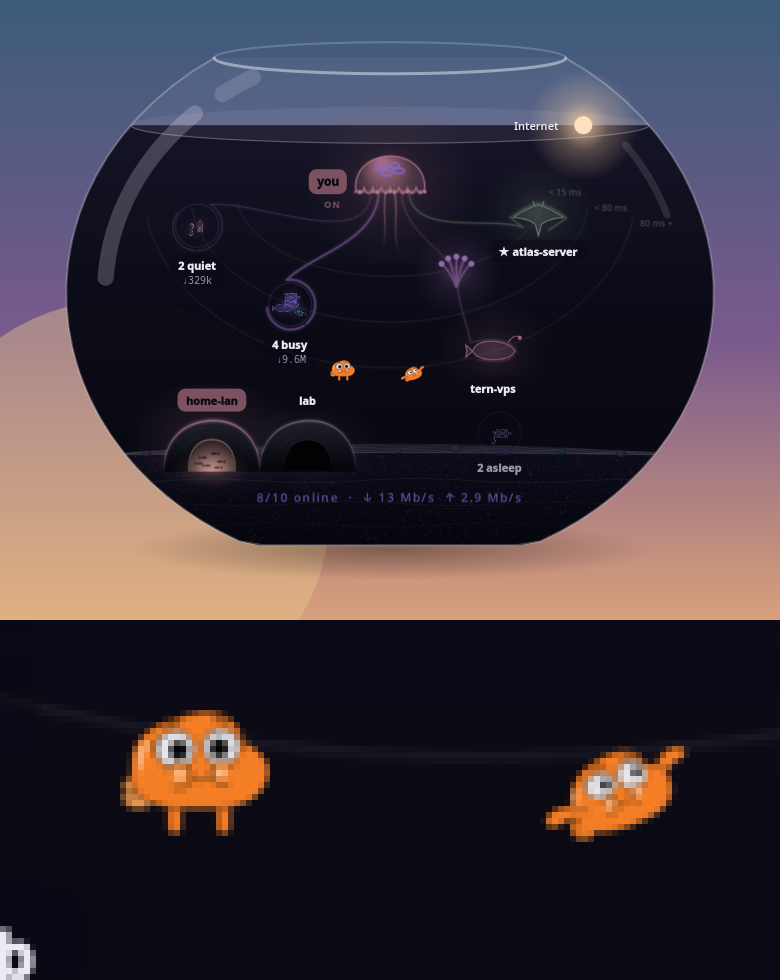
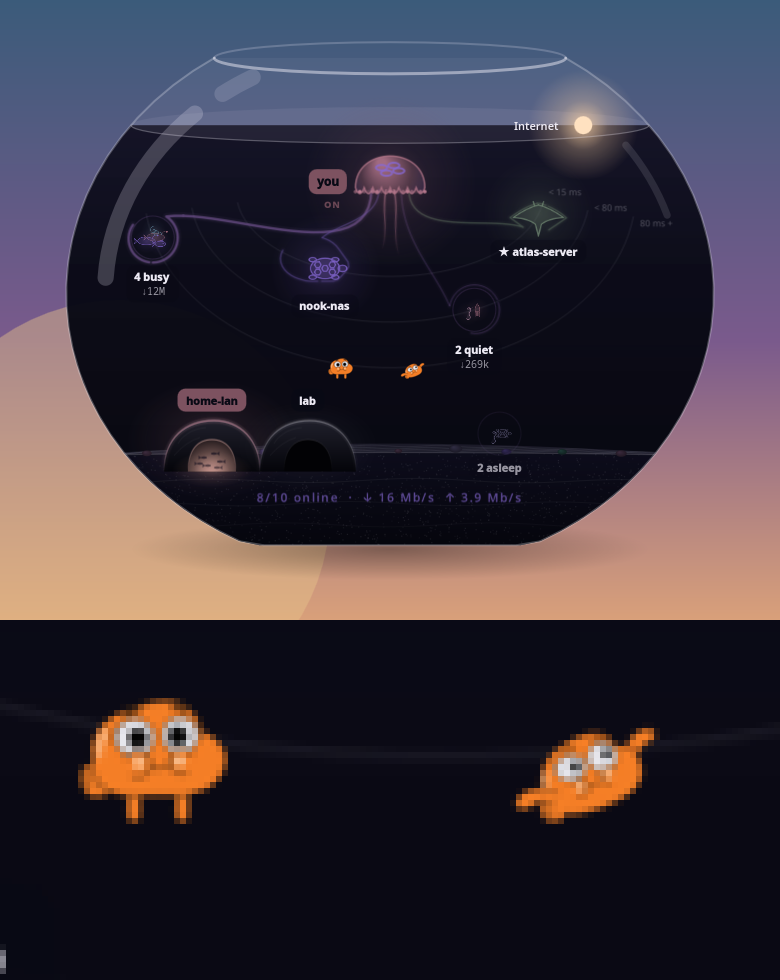
docs(design): Darwin scene frames re-composited with the corrected drawing (NAK-353)

diff --git a/docs/design/darwin/README.md b/docs/design/darwin/README.md
@@ -62,5 +62,3 @@ being the ratio of the two body masks, 715 px against 406 px wide).
   has a kink.
 - No three-quarter or true side view: no reference shows one. Shoes are not
   drawn: no reference shows them.
-- `scene-dark.png` and `scene-light.png` were composited before the last
-  front corrections (fin colour, brows, cheeks).
